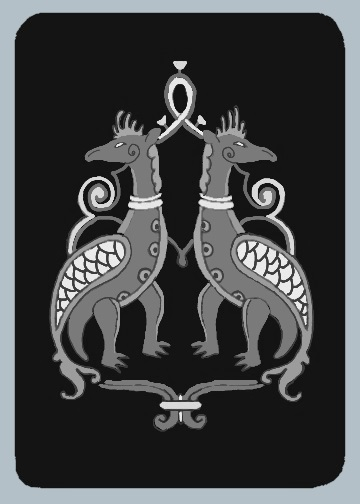
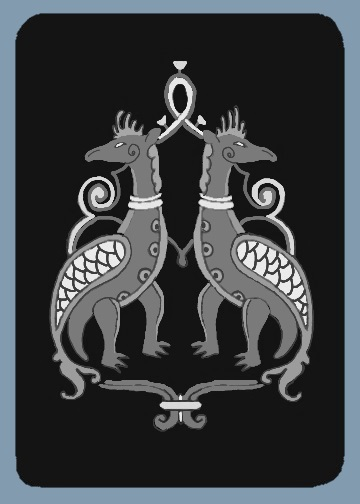
change card colors in blue deck

Changed region(s): [[0.0, 0.0, 1.0, 1.0]]

diff --git a/src/css/GameScreen.css b/src/css/GameScreen.css
@@ -106,8 +106,8 @@
 }
 
 .blue {
-    background-color: rgb(179, 192, 200);
-    background-color: rgba(179, 192, 200, .5); /*#B3C0C8*/
+    background-color: rgb(130, 155, 175);
+    background-color: rgb(130, 155, 175, .5); /*#829baf*/
 }
 
 .green {
@@ -265,7 +265,7 @@
 }
 
 .grave-blue {
-    background-color: rgb(179, 192, 200); /*#B3C0C8*/
+    background-color: rgb(130, 155, 175); /*#829baf*/
 }
 
 .grave-green {

diff --git a/src/css/HeroSelection.css b/src/css/HeroSelection.css
@@ -281,11 +281,11 @@ section {
 }
 
 .blue-item {
-	background-color: #b3c0c8;
+	background-color: #829baf;
 }
 
 .blue-action {
-	background-color: #829baf;
+	background-color: #5b7ea1;
 }
 
 .green-item {
